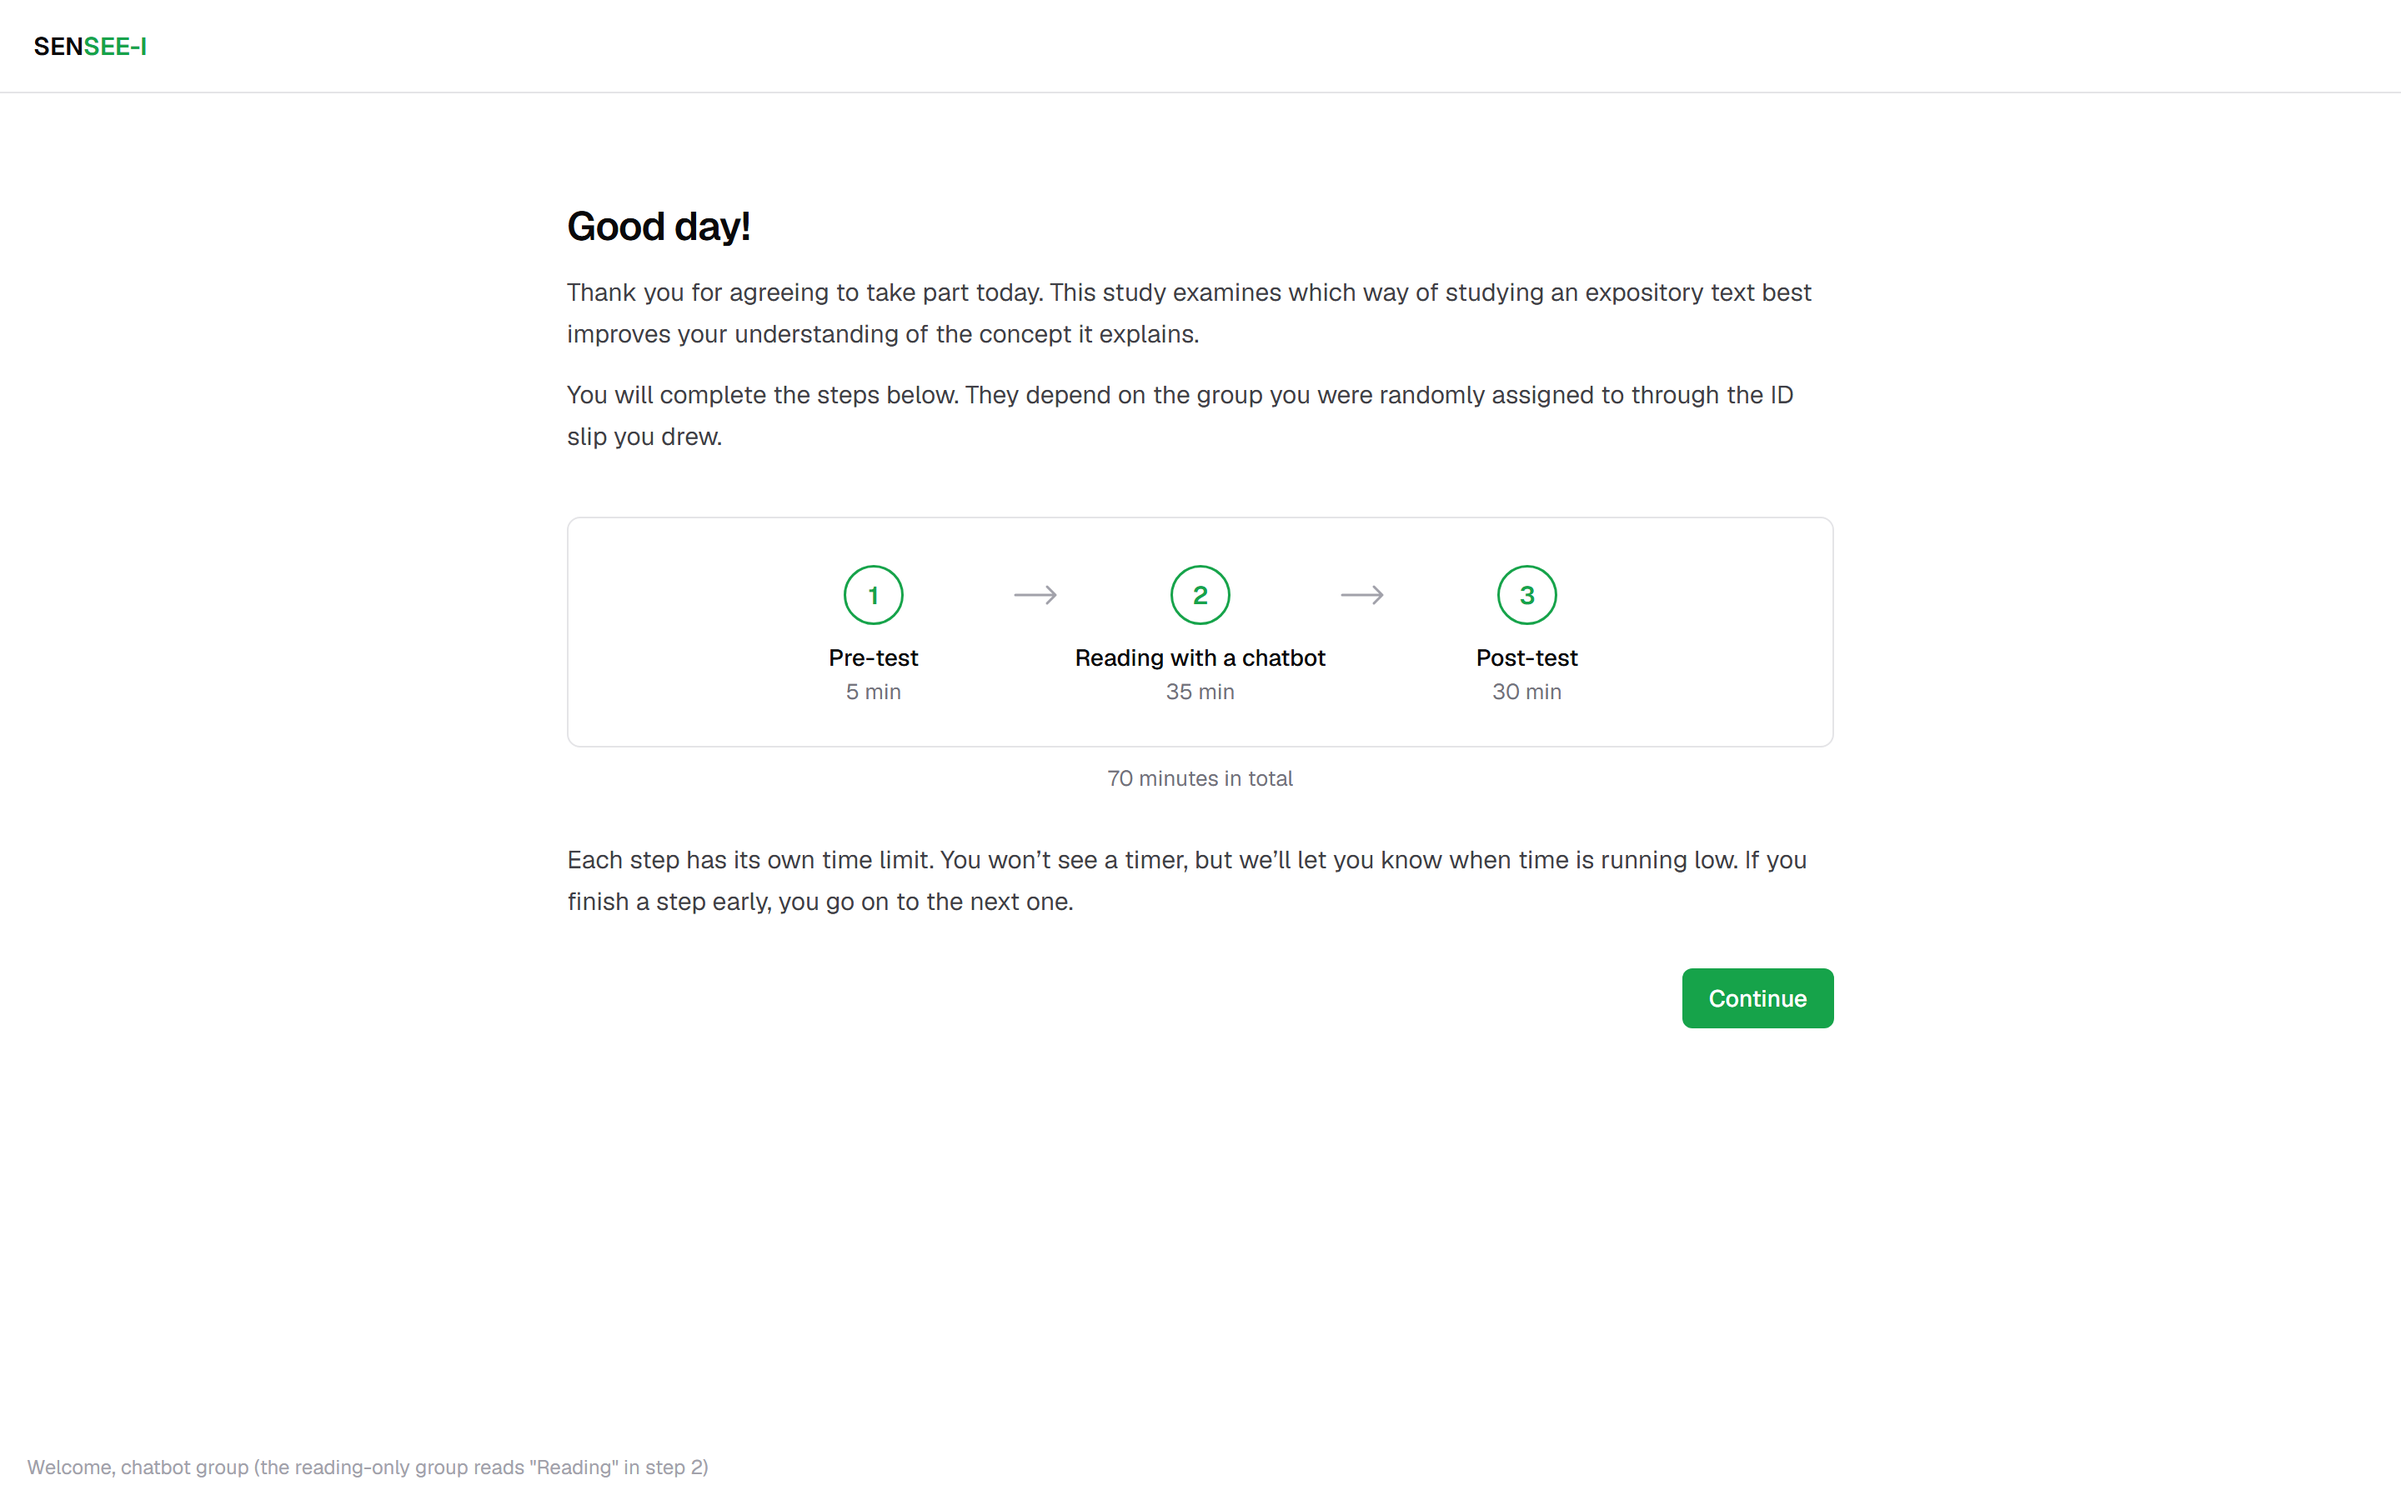
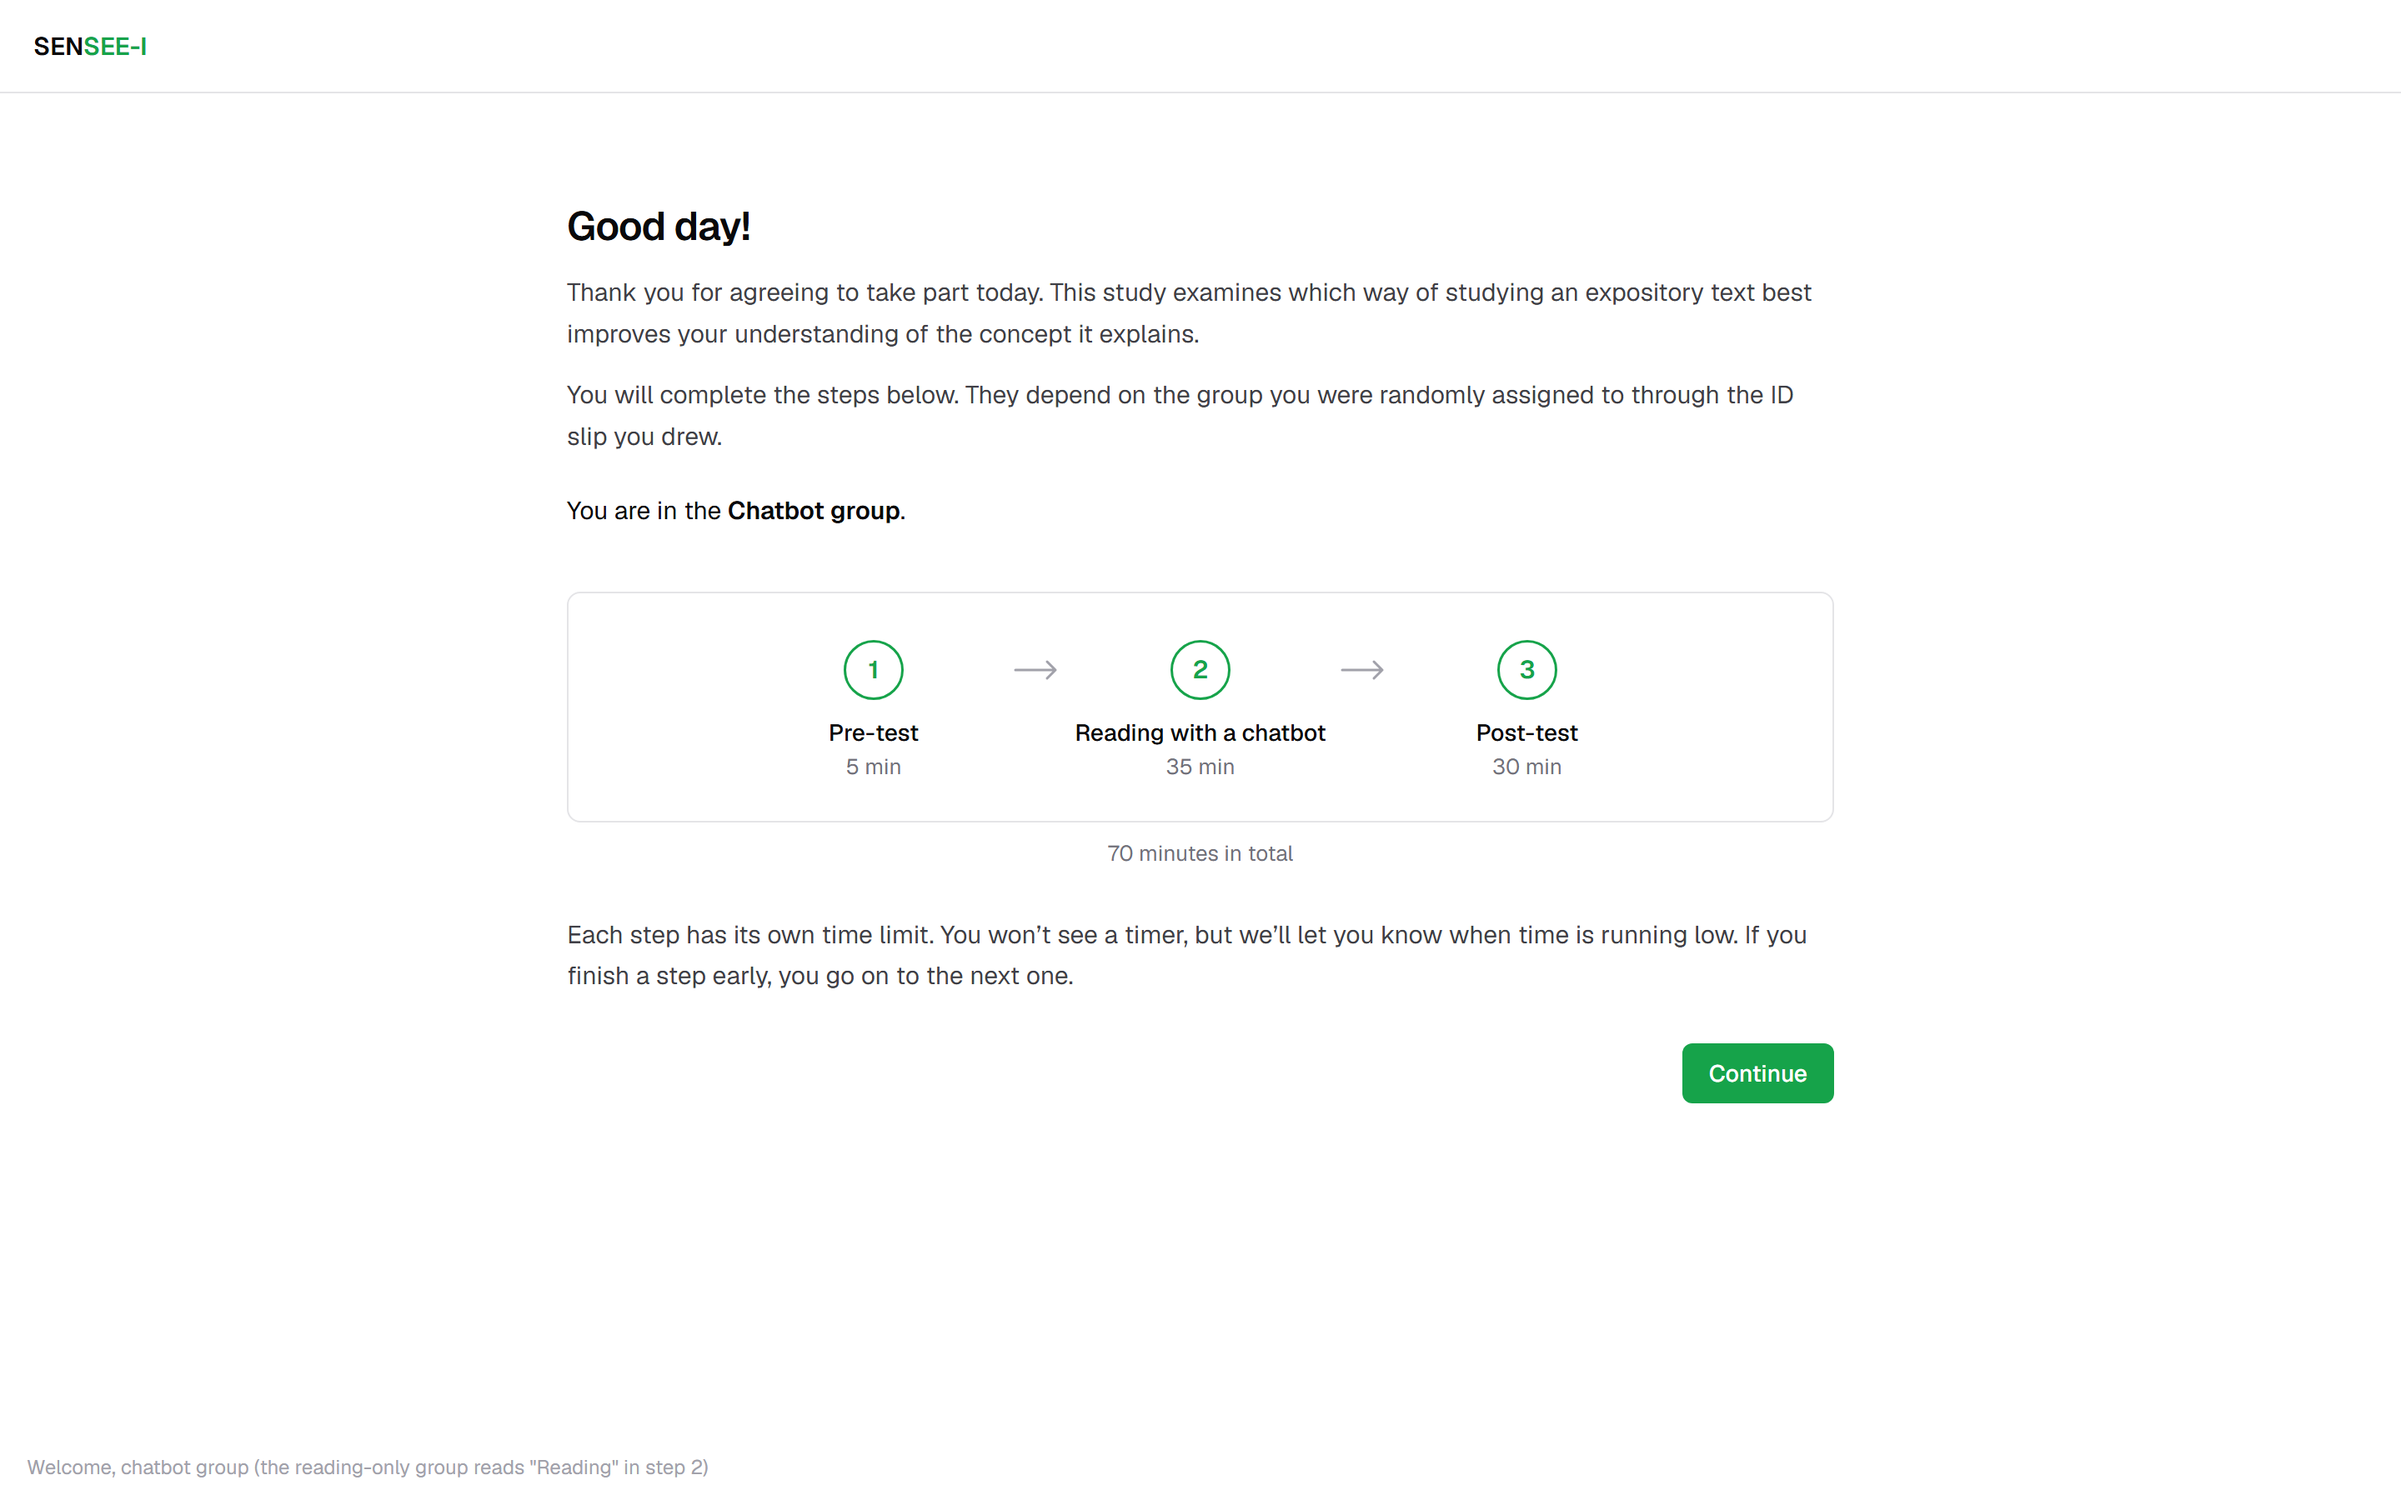
feat(ui): name the group on the welcome screen and tie the tests to the reading (#64)
## Summary
Names each participant's group on the welcome screen, and makes the
tests say which definition counts: the pre-test asks for the concept in
business, and the post-test asks for answers based on the reading.

## Changes
- Welcome screen: "You are in the Chatbot group." (or the SENSEE-I
group, or the Reading-only group), using the consent form's plain names
and never "control"
- Post-test start screen: "This checks what you understand about
strategic offensives as the reading describes them."
- Top of the post-test: "Answer every question in your own words, based
on the reading, without mentioning how you studied it."
- Pre-test question: "Define what a strategic offensive is in business,
to the best of your ability."
- Mockup and docs updated

## How to test
- `npx vitest run src/features/trial/tests.test.tsx`
- Sign in with an ID from each group and check the welcome screen

## Notes & caveats
- The chatbot group can search the web, where definitions differ; "based
on the reading" keeps every group graded against the same definition.

🤖 Generated with [Claude Code](https://claude.com/claude-code)

diff --git a/design/TrialBriefing.dc.html b/design/TrialBriefing.dc.html
@@ -59,6 +59,7 @@
       <h1 class="h1">Good day!</h1>
       <p class="p">Thank you for agreeing to take part today. This study examines which way of studying an expository text best improves your understanding of the concept it explains.</p>
       <p class="p">You will complete the steps below. They depend on the group you were randomly assigned to through the ID slip you drew.</p>
+      <p class="p" style="margin-top: 20px; color: #09090b;">You are in the <span style="font-weight: 600;">{{groupName}}</span>.</p>
       <div style="margin-top: 36px; padding: 28px 0 24px; border: 1px solid #e4e4e7; border-radius: 8px; display: flex; justify-content: center; align-items: flex-start;">
         <sc-for list="{{steps}}" as="s" hint-placeholder-count="4">
           <div style="display: {{s.arrow}}; align-items: center; height: 36px; color: #a1a1aa;">
@@ -229,7 +230,7 @@ class Component extends DCLogic {
     const dialog = (o) => Object.assign(v, { dialog: true, dPlain: true }, o);
 
     if (state.startsWith('Welcome')) {
-      Object.assign(v, { page: true, welcome: true, total: '70 minutes in total' });
+      Object.assign(v, { page: true, welcome: true, total: '70 minutes in total', groupName: state.endsWith('SEE-I') ? 'SENSEE-I group' : 'Chatbot group' });
       v.steps = state.endsWith('SEE-I')
         ? step([['Pre-test', '5 min'], ['About SENSEE-I', 'A short guide'], ['Reading and tutoring session', '35 min'], ['Post-test', '30 min']])
         : step([['Pre-test', '5 min'], ['Reading with a chatbot', '35 min'], ['Post-test', '30 min']]);

diff --git a/frontend/src/features/trial/TestScreens.tsx b/frontend/src/features/trial/TestScreens.tsx
@@ -392,8 +392,8 @@ export function PostTestScreen() {
           <div className="-mt-16 max-w-[520px] text-center">
             <h1 className="text-[24px] font-semibold tracking-[-0.02em]">Post-test</h1>
             <p className="mt-3 text-[15px] leading-[1.65] text-muted-foreground">
-              This checks what you understand about {concept} now. The reading won&rsquo;t be
-              shown. For each question you answer, say whether you think it is fully correct.
+              This checks what you understand about {concept} as the reading describes them. The
+              reading won&rsquo;t be shown. For each question you answer, say whether you think it is fully correct.
               Only choose &ldquo;Yes, I&rsquo;m sure&rdquo; if you expect full marks.
             </p>
             <p className="mt-3 text-[15px] font-medium">You have {view.minutes} minutes.</p>
@@ -459,7 +459,8 @@ export function PostTestScreen() {
           <div className="min-w-0 flex-1 pb-16 pt-10">
             <h1 className="text-[24px] font-semibold tracking-[-0.02em]">Post-test</h1>
             <p className="mt-1.5 text-[14px] text-muted-foreground">
-              Answer every question in your own words, without mentioning how you studied the reading.
+              Answer every question in your own words, based on the reading, without mentioning how you
+              studied it.
             </p>
             {parts.map((p) => (
               <section key={p.part}>

diff --git a/frontend/src/features/trial/tests.test.tsx b/frontend/src/features/trial/tests.test.tsx
@@ -135,6 +135,8 @@ describe("the pre-test", () => {
     expect(steps).toHaveTextContent("About SENSEE-I");
     expect(steps).toHaveTextContent("Reading and tutoring session35 min");
     expect(screen.getByText("70 minutes in total")).toBeInTheDocument();
+    // The group is named, plainly, as the consent form names it.
+    expect(screen.getByText("SENSEE-I group")).toBeInTheDocument();
     await userEvent.click(screen.getByRole("button", { name: "Continue" }));
     expect(await screen.findByText("You have 5 minutes.")).toBeInTheDocument();
     expect(await screen.findByText(/already know about strategic offensives/)).toBeInTheDocument();
@@ -152,6 +154,7 @@ describe("the post-test", () => {
     renderAt("/posttest", <PostTestScreen />);
     expect(await screen.findByText("You have 30 minutes.")).toBeInTheDocument();
     expect(screen.getByText(/Only choose .Yes, I.m sure. if you expect full marks/)).toBeInTheDocument();
+    expect(screen.getByText(/as the reading describes them/)).toBeInTheDocument();
     await userEvent.click(screen.getByRole("button", { name: "Start" }));
     expect(api.startTest).toHaveBeenCalledWith("post");
     expect(await screen.findByText("Question q1")).toBeInTheDocument();

diff --git a/frontend/src/features/trial/Briefing.tsx b/frontend/src/features/trial/Briefing.tsx
@@ -63,6 +63,15 @@ function Continue({ onClick }: { onClick: () => void }) {
 // --------------------------------------------------------------------------- #
 // welcome
 
+/** The group's name, as the consent form gives it. Plain names that say what
+ *  each group does: never "control" or "experimental", which can change how
+ *  hard a participant tries. */
+const GROUP_NAME: Record<ClassMode, string> = {
+  seei: "SENSEE-I group",
+  chatbot: "Chatbot group",
+  reading_only: "Reading-only group",
+};
+
 const STEP_NAME: Record<ClassMode, string> = {
   seei: "Reading and tutoring session",
   chatbot: "Reading with a chatbot",
@@ -97,6 +106,9 @@ export function Welcome({ onContinue }: { onContinue: () => void }) {
         You will complete the steps below. They depend on the group you were randomly assigned to
         through the ID slip you drew.
       </P>
+      <p className="mt-5 text-[15px] leading-[1.65]">
+        You are in the <span className="font-semibold">{GROUP_NAME[data.mode]}</span>.
+      </p>
       <ol
         aria-label="Your steps"
         className="mt-8 flex flex-col items-stretch gap-3 rounded-lg border px-5 py-6 sm:flex-row sm:items-start sm:justify-center sm:gap-0"

diff --git a/docs/context/trial.md b/docs/context/trial.md
@@ -280,8 +280,9 @@ the study or SEE-I was (`frontend/src/features/trial/Briefing.tsx`). None of it 
 timed: each stage's clock still starts on its own Start.
 
 - **Welcome**, every group, before the pre-test's start screen: what the study is
-  for, their group's steps as a flowchart with each step's minutes and the total,
-  and that no timer is shown. The minutes come from `test_minutes` in `/trial/me`.
+  for, their group by name ("You are in the Chatbot group", using the consent
+  form's plain names, never "control"), their steps as a flowchart with each
+  step's minutes and the total, and that no timer is shown. The minutes come from `test_minutes` in `/trial/me`.
 - **About SENSEE-I** and **How the session works**, the SEE-I group only, after
   the pre-test and before the reading, so the pre-test is answered without SEE-I
   in mind. The first defines the four steps as the rubric grades them (Illustrate
